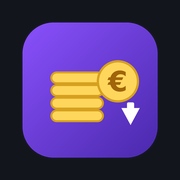
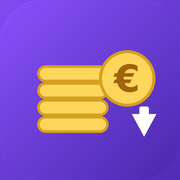
Cashflow per iPhone 1.2.0: Face ID, icona, rimborso più chiaro
Claude-Session: https://claude.ai/code/session_01K3RSxWFJQ5PuBnSaNn8foP

diff --git a/js/lock.js b/js/lock.js
@@ -1,0 +1,103 @@
+// Blocco con Face ID (o Touch ID / codice dell'iPhone) tramite una passkey del telefono (WebAuthn).
+// La passkey resta nel portachiavi dell'iPhone: l'app chiede solo «sei tu?» e iOS mostra Face ID.
+import { h, fill } from "./ui.js";
+
+const K = "cf.lock";
+function load() { try { return JSON.parse(localStorage.getItem(K) || "null") || {}; } catch { return {}; } }
+function save(v) { try { localStorage.setItem(K, JSON.stringify(v)); } catch { /* */ } }
+
+export const lockSettings = () => ({ on: false, after: 60, ...load() });
+const b64 = (buf) => btoa(String.fromCharCode(...new Uint8Array(buf)));
+const unb64 = (s) => Uint8Array.from(atob(s), (c) => c.charCodeAt(0));
+const rnd = (n) => crypto.getRandomValues(new Uint8Array(n));
+
+export async function supported() {
+  try {
+    return !!(window.PublicKeyCredential
+      && await PublicKeyCredential.isUserVerifyingPlatformAuthenticatorAvailable());
+  } catch { return false; }
+}
+
+/** Crea la passkey (iOS chiede il permesso e Face ID). */
+export async function enable(name) {
+  const cred = await navigator.credentials.create({ publicKey: {
+    challenge: rnd(32),
+    rp: { name: "Cashflow", id: location.hostname },
+    user: { id: rnd(16), name: name || "Cashflow", displayName: `Cashflow ${name || ""}`.trim() },
+    pubKeyCredParams: [{ type: "public-key", alg: -7 }, { type: "public-key", alg: -257 }],
+    authenticatorSelection: { authenticatorAttachment: "platform", userVerification: "required", residentKey: "preferred" },
+    timeout: 60000,
+  } });
+  if (!cred) throw new Error("Face ID non attivato.");
+  save({ ...lockSettings(), on: true, id: b64(cred.rawId) });
+}
+
+/** Chiede Face ID. Ritorna true se è il proprietario. */
+export async function verify() {
+  const s = lockSettings();
+  if (!s.id) return true;
+  const r = await navigator.credentials.get({ publicKey: {
+    challenge: rnd(32), rpId: location.hostname, userVerification: "required", timeout: 60000,
+    allowCredentials: [{ type: "public-key", id: unb64(s.id), transports: ["internal", "hybrid"] }],
+  } });
+  return !!r;
+}
+
+export function disable() { save({ ...lockSettings(), on: false, id: null }); }
+export function setAfter(sec) { save({ ...lockSettings(), after: sec }); }
+
+// ---------------------------------------------------------------- schermata di blocco
+let hiddenAt = 0;
+let locked = false;
+
+export function needsLock() {
+  const s = lockSettings();
+  return !!(s.on && s.id);
+}
+
+/** Mostra il blocco sopra l'app finché Face ID non va a buon fine. */
+export function showLock(onReset) {
+  if (locked) return;
+  locked = true;
+  const msg = h("div.lock-msg");
+  const btn = h("button.btn.primary.big", {}, "Sblocca con Face ID");
+  const wrap = h("div.lock", {}, h("div.lock-box", {}, h("div.logo", {}, h("img", { src: "icons/logo.png", alt: "" })), h("h2", {}, "Cashflow"),
+    h("p.muted", {}, "Bloccato con Face ID"), btn, msg,
+    h("button.btn.linkish", { onclick: async () => {
+      if (confirm("Senza Face ID puoi solo ricollegare il telefono da capo (serve il codice dal PC). Le voci non ancora inviate andrebbero perse. Continuare?")) {
+        disable();
+        onReset?.();
+        wrap.remove();
+        locked = false;
+      }
+    } }, "Non riesco a sbloccare")));
+  document.body.append(wrap);
+  document.documentElement.classList.add("is-locked");
+  const tryIt = async () => {
+    fill(msg);
+    btn.disabled = true;
+    try {
+      if (await verify()) {
+        wrap.remove();
+        document.documentElement.classList.remove("is-locked");
+        locked = false;
+        return;
+      }
+    } catch (e) {
+      fill(msg, e.name === "NotAllowedError" ? "Annullato: tocca il pulsante per riprovare." : e.message);
+    } finally { btn.disabled = false; }
+  };
+  btn.onclick = tryIt;
+  // iOS vuole un tocco per Face ID: si prova subito, altrimenti resta il pulsante
+  setTimeout(tryIt, 300);
+}
+
+/** Blocca all'avvio e quando l'app torna in primo piano dopo il tempo scelto. */
+export function wireLock(onReset) {
+  if (needsLock()) showLock(onReset);
+  document.addEventListener("visibilitychange", () => {
+    if (document.visibilityState === "hidden") { hiddenAt = Date.now(); return; }
+    const s = lockSettings();
+    if (needsLock() && hiddenAt && Date.now() - hiddenAt >= (s.after || 0) * 1000) showLock(onReset);
+  });
+}

diff --git a/js/views/setup.js b/js/views/setup.js
@@ -2,6 +2,7 @@
 import * as D from "../data.js";
 import * as M from "../model.js";
 import { h, toast, busy, confirmBox, fill, sheet } from "../ui.js";
+import * as L from "../lock.js";
 
 export function wizard(root, done) {
   const code = h("textarea.code", { rows: 4, placeholder: "CF1.…", autocapitalize: "off", autocorrect: "off", spellcheck: false });
@@ -21,7 +22,7 @@ export function wizard(root, done) {
     done();
   })(), "Collego…");
   fill(root,
-    h("div.wiz-head", {}, h("div.logo", {}, "💶"), h("h1", {}, "Cashflow")),
+    h("div.wiz-head", {}, h("div.logo", {}, h("img", { src: "icons/logo.png", alt: "" })), h("h1", {}, "Cashflow")),
     h("div.card.wiz", {},
       h("h2", {}, "Collega il telefono"),
       h("p", {}, "Sul PC apri Cashflow → Impostazioni → «App per iPhone» e copia il codice di collegamento "
@@ -67,6 +68,7 @@ export function settingsView(root, rerender, { version, checkUpdate, restartSetu
       row("Voci in attesa del PC", String(D.pendingOps().length), null),
       row("Avvisi", errs ? `${errs} modifiche non applicate` : "nessuno", h("button.btn.small-btn", { onclick: conflictsSheet }, "Vedi")),
       h("button.btn.wide", { onclick: () => D.sync() }, "Aggiorna adesso")),
+    securityCard(rerender),
     h("div.card", {}, h("div.card-title", {}, "Collegamento"),
       row("Nome di questo telefono", D.settings.device, h("button.btn.small-btn", { onclick: () => editName(rerender) }, "Cambia")),
       row("Codice di collegamento", "salvato su questo telefono", h("button.btn.small-btn", { onclick: () => editCode(rerender) }, "Cambia")),
@@ -114,4 +116,40 @@ function editCode(rerender) {
   })(), "Controllo…");
   fill(s.body, h("p.muted", {}, "Serve solo se hai ricollegato il foglio Google dal PC. Il codice si copia da "
     + "Cashflow sul PC → Impostazioni → App per iPhone."), h("label.field", {}, h("span", {}, "Nuovo codice"), code), err, b);
+}
+
+function securityCard(rerender) {
+  const st = L.lockSettings();
+  const on = L.needsLock();
+  const card = h("div.card", {}, h("div.card-title", {}, "🔒 Blocco con Face ID"));
+  const msg = h("div.form-err");
+  const toggle = h("button.btn.wide" + (on ? "" : ".primary"), {}, on ? "Disattiva Face ID" : "Attiva Face ID");
+  toggle.onclick = () => busy(toggle, (async () => {
+    msg.textContent = "";
+    try {
+      if (on) {
+        if (!(await L.verify())) return;
+        L.disable();
+        toast("Face ID disattivato");
+      } else {
+        if (!(await L.supported())) { msg.textContent = "Questo telefono non permette Face ID alle app web (serve iOS 16 o più recente e Face ID attivo)."; return; }
+        await L.enable(D.settings.device || D.profile().utente);
+        toast("Face ID attivo ✓", "ok");
+      }
+      rerender();
+    } catch (e) {
+      msg.textContent = e.name === "NotAllowedError" ? "Annullato." : e.message;
+    }
+  })(), "Attendi…");
+  const opts = [[0, "Subito"], [60, "Dopo 1 minuto"], [300, "Dopo 5 minuti"], [900, "Dopo 15 minuti"]];
+  const sel = h("select", { onchange: (e) => { L.setAfter(Number(e.target.value)); toast("Salvato ✓", "ok"); } },
+    opts.map(([v, t]) => h("option", { value: v }, t)));
+  sel.value = String(st.after ?? 60);
+  fill(card, card.firstChild,
+    h("p.muted.small", {}, on ? "Attivo: per aprire Cashflow serve il tuo volto (o il codice dell'iPhone se Face ID non riesce)."
+      : "Per aprire Cashflow servirà il tuo volto. La prima volta l'iPhone chiede il permesso e salva una chiave d'accesso "
+        + "per Cashflow nel portachiavi."),
+    on ? h("label.field", {}, h("span", {}, "Quando torni nell'app, chiedi Face ID"), sel) : null,
+    toggle, msg);
+  return card;
 }

diff --git a/js/forms.js b/js/forms.js
@@ -178,10 +178,32 @@ export function comuneSheet(row, { onDone, rimborso } = {}) {
     tipo = v;
     spesaOnly.style.display = v === M.T.SPESA ? "" : "none";
     payLbl.firstChild.textContent = v === M.T.RIMBORSO ? "Chi dà i soldi" : "Pagato da";
+    drawRimb();
   });
   const payLbl = field("Pagato da", payer);
+  // rimborso: frase chiara su chi dà i soldi a chi e come restano i conti
+  const rimbInfo = h("div.rimb-info");
+  const saldo = M.comuneSaldo(D.comuneMovs(year), pa, pb);
+  const drawRimb = () => {
+    if (tipo !== M.T.RIMBORSO) { fill(rimbInfo); return; }
+    const who = payer.get(), to = who === pa ? pb : pa;
+    const imp = M.parseAmount(fImp.value) || 0;
+    let after = "";
+    if (saldo.debitore === who) {
+      const rest = M.pyRound2(saldo.importo - imp);
+      after = Math.abs(rest) < 0.005 ? "Dopo siete in pari ✅" : rest > 0 ? `Dopo ${who} deve ancora ${M.fmtEur(rest)} a ${to}`
+        : `Attenzione: è più del dovuto, dopo sarà ${to} a dovere ${M.fmtEur(-rest)} a ${who}`;
+    } else if (saldo.debitore) {
+      after = `Attenzione: ora è ${to} che deve ${M.fmtEur(saldo.importo)} a ${who}: forse va invertito «Chi dà i soldi».`;
+    }
+    fill(rimbInfo, h("div", {}, h("b", {}, who), " dà ", h("b", {}, M.fmtEur(imp)), " a ", h("b", {}, to)),
+      after ? h("div.small", {}, after) : null);
+  };
+  fImp.addEventListener("input", drawRimb);
+  payer.addEventListener("click", () => setTimeout(drawRimb));
   spesaOnly.style.display = tipo === M.T.SPESA ? "" : "none";
   if (tipo === M.T.RIMBORSO) payLbl.firstChild.textContent = "Chi dà i soldi";
+  drawRimb();
   const err = errBox();
 
   const read = () => {
@@ -233,7 +255,7 @@ export function comuneSheet(row, { onDone, rimborso } = {}) {
 
   const cm = D.years("comune").flatMap((y) => D.comuneMovs(y));
   fill(s.body, pendingWarn(row), rimborso ? null : tipoSeg,
-    h("div.grid2", {}, field("Data", fData), field("Importo €", fImp)), payLbl, spesaOnly,
+    h("div.grid2", {}, field("Data", fData), field("Importo €", fImp)), payLbl, rimbInfo, spesaOnly,
     field("Descrizione", fDesc, datalist("dl-cdesc", M.suggestions(cm, "descrizione"))), field("Note", fNote), err, actions);
   if (!editing && !rimborso) setTimeout(() => fImp.focus(), 300);
 }

diff --git a/style.css b/style.css
@@ -180,3 +180,13 @@ textarea.code { font: 13px/1.3 ui-monospace, Menlo, monospace; color: var(--text
   border-radius: 10px; padding: 10px; width: 100%; word-break: break-all; }
 .item.pending .item-sub::after { content: " · in attesa del PC"; color: var(--amber); }
 .warn { background: var(--amber-soft); color: var(--amber); border-radius: 10px; padding: 9px 10px; font-size: 14px; margin-bottom: 10px; }
+.rimb-info:empty { display: none; }
+.rimb-info { background: var(--blue-soft); border-radius: 10px; padding: 10px; margin: -4px 0 12px; font-size: 15px; }
+.rimb-info .small { color: var(--muted); margin-top: 4px; }
+.lock { position: fixed; inset: 0; z-index: 100; background: rgba(18,22,28,.97); backdrop-filter: blur(20px);
+  -webkit-backdrop-filter: blur(20px); display: grid; place-items: center; padding: 24px; }
+.lock-box { text-align: center; max-width: 320px; width: 100%; } .lock-box .btn { width: 100%; margin-top: 10px; }
+.lock-msg { color: var(--amber); min-height: 20px; margin-top: 8px; font-size: 14px; }
+.btn.linkish { background: none; border: 0; color: var(--muted); font-weight: 400; font-size: 14px; }
+.is-locked main, .is-locked header.top { filter: blur(14px); }
+.logo img { width: 72px; height: 72px; display: block; margin: 0 auto; }

diff --git a/js/views/comuni.js b/js/views/comuni.js
@@ -71,7 +71,8 @@ function defaultDate() {
 function comuneRow(x, pa, pb, key, onTap) {
   const rimb = x.tipo === M.T.RIMBORSO;
   const mine = key && !rimb ? (x.importo * Number(x[key] || 0)) / 100 : null;
-  const sub = rimb ? `${M.fmtDate(x.data).slice(0, 5)} · rimborso da ${x.pagato_da}`
+  const to = x.pagato_da === pa ? pb : pa;
+  const sub = rimb ? `${M.fmtDate(x.data).slice(0, 5)} · rimborso: ${x.pagato_da} dà i soldi a ${to}`
     : `${M.fmtDate(x.data).slice(0, 5)} · ${x.categoria || "—"} · pagato da ${x.pagato_da || "?"} · ${pa} ${Number(x.quota_a ?? 0)}% / ${pb} ${Number(x.quota_b ?? 0)}%`;
   return h("button.item" + (x._pending ? ".pending" : ""), { type: "button", onclick: onTap },
     h("div.item-main", {}, h("div.item-title", {}, x.descrizione || (rimb ? "Rimborso" : x.categoria || "—")),

diff --git a/js/app.js b/js/app.js
@@ -6,8 +6,9 @@ import * as Anno from "./views/anno.js";
 import * as Comuni from "./views/comuni.js";
 import { wizard, settingsView, conflictsSheet } from "./views/setup.js";
 import { fmtDate } from "./model.js";
+import * as L from "./lock.js";
 
-export const APP_VERSION = "1.1.1";
+export const APP_VERSION = "1.2.0";
 
 const TABS = [
   { id: "mese", label: "Mese", icon: "📅" },
@@ -127,6 +128,7 @@ async function boot() {
   try { navigator.storage?.persist?.(); } catch { /* */ }
   D.onChange((what) => (what === "status" ? drawHeader() : render()));
   if (!D.isLinked()) { restartSetup(); return; }
+  L.wireLock(() => { D.resetAll(); restartSetup(); });
   start();
 }
 
